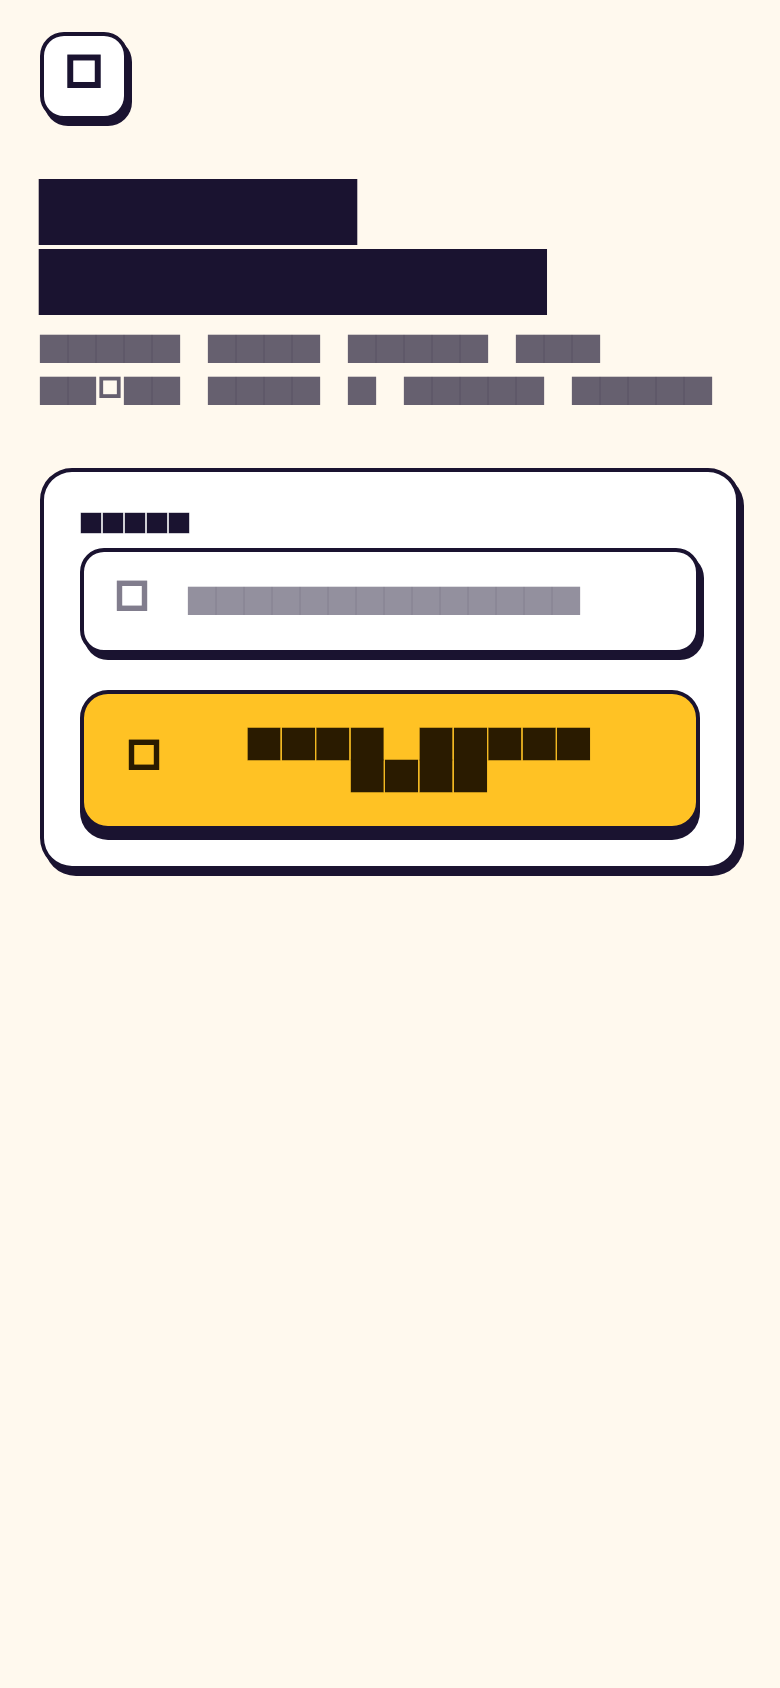
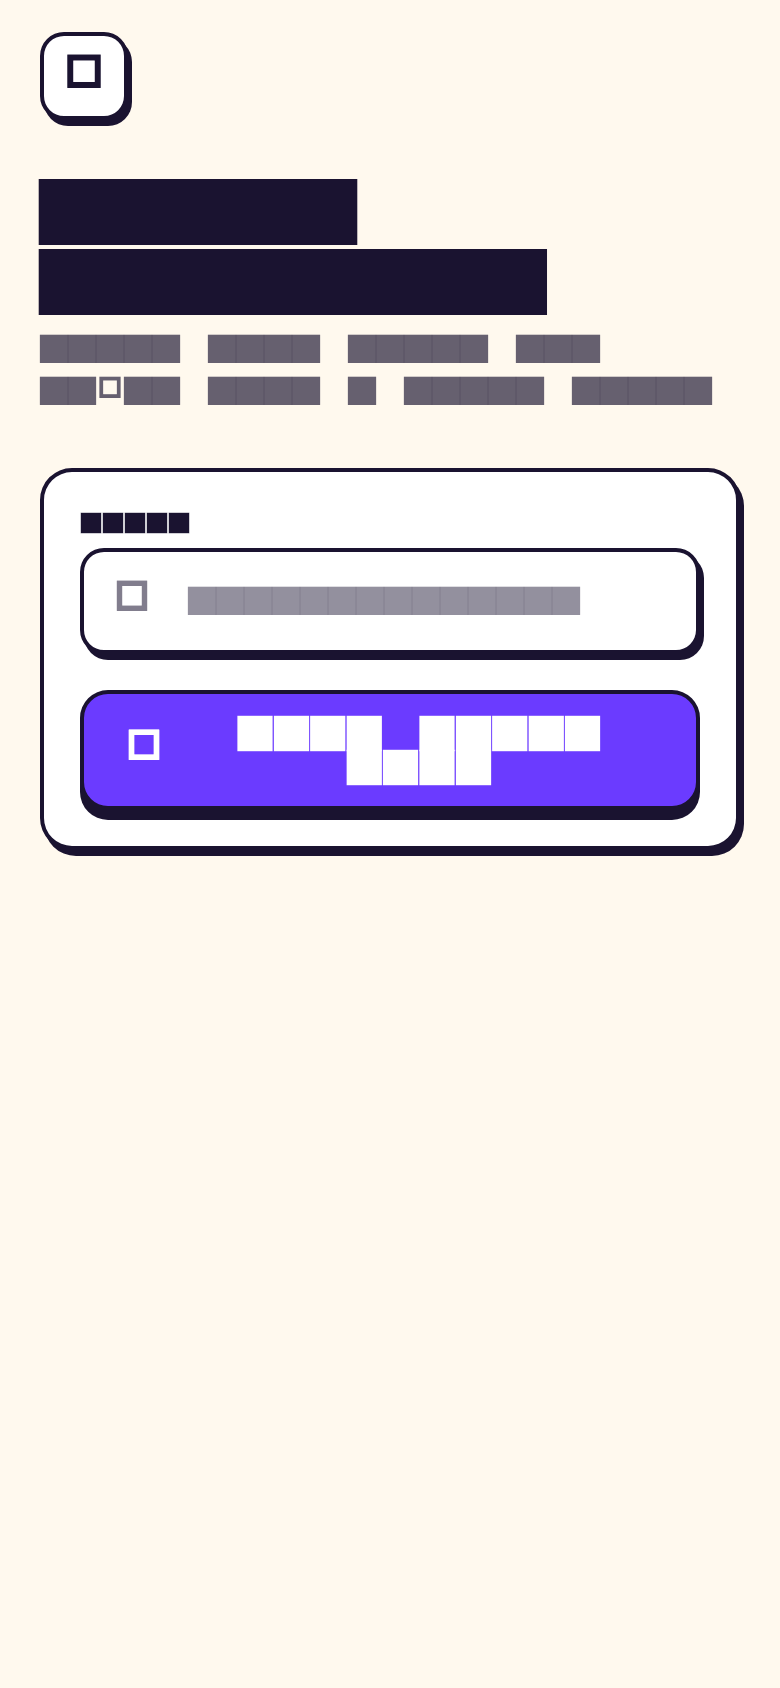
Give the active-quest hero its violet shadow
The spec names this case directly: a coloured shadow marks the one item on
screen that matters most, with #6B3BFF on the active-quest hero and #17C27B
on a cleared quest. Everything else takes ink.

The hero had an ink Offset(3,4) shadow and a 2.5px border. Now violet at
Offset(6,6) - 6px being the spec's depth for hero panels - and 2px, which is
the border weight everywhere in this design.

The hero itself stays navy. It is an ink panel by design, unlike the slot
machine card in the previous commit, which the frame draws white.

Changed region(s): [[0.0308, 0.4005, 0.9538, 0.5237]]

diff --git a/apps/mobile_app/lib/features/quests/presentation/pages/home_page.dart b/apps/mobile_app/lib/features/quests/presentation/pages/home_page.dart
@@ -683,18 +683,22 @@ class _SlotMachineZone extends StatelessWidget {
   @override
   Widget build(BuildContext context) {
     final ink = QuestColors.text(context);
-    // Same navy as the bottom nav pill + active quest hero.
-    const navy = QuestColors.osTextPrimary;
     return Container(
-      padding: const EdgeInsets.all(16),
+      padding: const EdgeInsets.symmetric(vertical: 22, horizontal: 18),
       decoration: BoxDecoration(
-        color: navy,
+        // The design draws this as a white card, not an ink panel: it is the
+        // one thing to do on an empty home, so it should read as the bright
+        // surface rather than recede.
+        color: QuestColors.osCard,
         borderRadius: BorderRadius.circular(18),
-        border: Border.all(color: ink, width: 2.5),
-        boxShadow: [
+        border: Border.all(color: ink, width: 2),
+        boxShadow: const [
+          // A *coloured* shadow marks the single most important thing on
+          // screen; everything else takes ink. With no active quest, that is
+          // this card. 6px, coral, per the frame.
           BoxShadow(
-            color: ink,
-            offset: const Offset(3, 4),
+            color: QuestColors.osRed,
+            offset: Offset(6, 6),
             blurRadius: 0,
           ),
         ],
@@ -752,6 +756,12 @@ class _SlotMachineZone extends StatelessWidget {
 /// Retro arcade chase scene — a Pac-Man sprite walks left→right chomping a
 /// row of dots, with a ghost tailing behind. Draws everything with
 /// [CustomPainter] so it stays crisp at any size and has no asset deps.
+/// The slot-machine reels: three warm-surface tiles, per the design frame.
+///
+/// This replaced a hand-painted Pac-Man scene on a black strip. The frame
+/// draws plain 78pt reels — `#FFF1D6` ground, 2px ink border, 12px radius,
+/// a 26px glyph — and the black strip cannot survive inside the white card
+/// the frame specifies anyway: its pale dot palette was chosen for black.
 class _RetroArcadeScene extends StatefulWidget {
   const _RetroArcadeScene();
 
@@ -761,178 +771,54 @@ class _RetroArcadeScene extends StatefulWidget {
 
 class _RetroArcadeSceneState extends State<_RetroArcadeScene>
     with SingleTickerProviderStateMixin {
-  late final AnimationController _ac;
+  late final AnimationController _spin = AnimationController(
+    duration: const Duration(milliseconds: 1400),
+    vsync: this,
+  )..repeat();
 
-  @override
-  void initState() {
-    super.initState();
-    _ac = AnimationController(
-      vsync: this,
-      duration: const Duration(milliseconds: 2600),
-    )..repeat();
-  }
+  /// The reels idle rather than sit dead: each cycles its glyph on its own
+  /// phase, so the zone reads as a machine waiting to be pulled.
+  static const List<String> _glyphs = ['◇', '◈', '◆'];
 
   @override
   void dispose() {
-    _ac.dispose();
+    _spin.dispose();
     super.dispose();
   }
 
   @override
   Widget build(BuildContext context) {
-    return ClipRRect(
-      borderRadius: BorderRadius.circular(12),
-      child: Container(
-        height: 80,
-        decoration: BoxDecoration(
-          color: QuestColors.pureBlack,
-          borderRadius: BorderRadius.circular(12),
-          border: Border.all(
-            color: QuestColors.pureWhite.withAlpha(QuestColors.alphaHairline),
-            width: 1.5,
-          ),
-        ),
-        child: AnimatedBuilder(
-          animation: _ac,
-          builder: (_, __) {
-            return CustomPaint(
-              painter: _ArcadeScenePainter(progress: _ac.value),
-              size: Size.infinite,
-            );
-          },
-        ),
-      ),
+    final ink = QuestColors.text(context);
+    return AnimatedBuilder(
+      animation: _spin,
+      builder: (context, _) {
+        return Row(
+          children: [
+            for (var reel = 0; reel < 3; reel++) ...[
+              if (reel > 0) const SizedBox(width: 9),
+              Expanded(
+                child: Container(
+                  height: 78,
+                  alignment: Alignment.center,
+                  decoration: BoxDecoration(
+                    color: QuestColors.osSurface,
+                    borderRadius: BorderRadius.circular(12),
+                    border: Border.all(color: ink, width: 2),
+                  ),
+                  child: Text(
+                    // Offset phase per reel so they never land together.
+                    _glyphs[((_spin.value * _glyphs.length).floor() + reel) %
+                        _glyphs.length],
+                    style: TextStyle(fontSize: 26, color: ink, height: 1),
+                  ),
+                ),
+              ),
+            ],
+          ],
+        );
+      },
     );
   }
-}
-
-class _ArcadeScenePainter extends CustomPainter {
-  _ArcadeScenePainter({required this.progress});
-  final double progress;
-
-  // Screen-specific colours — not theme tokens (Pac-Man scene palette).
-  static const Color _dotYellow = Color(0xFFFFF2A8);
-  static const Color _pacYellow = Color(0xFFFFD400);
-  static const Color _ghostPink = Color(0xFFFFB8DE);
-  static const Color _ghostCyan = Color(0xFF6FD9FF);
-
-  @override
-  void paint(Canvas canvas, Size size) {
-    // Dot row — evenly spaced along the middle of the strip.
-    const dotCount = 9;
-    final dotSpacing = size.width / (dotCount + 1);
-    final cy = size.height / 2;
-    final dotPaint = Paint()..color = _dotYellow;
-
-    // Pac-Man travels from the left edge to just past the right edge on a
-    // ping-pong loop. When he's past a dot, that dot is "eaten".
-    final loopT = progress; // 0..1
-    // Ping-pong: forward for first half, backward second half.
-    final pacT = loopT < 0.5 ? loopT * 2 : (1 - loopT) * 2;
-    final pacX = -14 + (size.width + 28) * pacT;
-    final goingLeft = loopT >= 0.5;
-
-    // Draw the dots, skipping ones Pac-Man has already passed in the
-    // current direction.
-    for (var i = 0; i < dotCount; i++) {
-      final dotX = dotSpacing * (i + 1);
-      final eaten = goingLeft ? dotX > pacX : dotX < pacX;
-      if (eaten) continue;
-      canvas.drawCircle(Offset(dotX, cy), 2.2, dotPaint);
-    }
-
-    // Pac-Man — yellow circle with a chomping wedge mouth.
-    final chomp =
-        0.05 + 0.55 * ((progress * 8) % 1.0 < 0.5 ? 1.0 : 0.0).toDouble();
-    _drawPacMan(canvas, Offset(pacX, cy), 11, chomp, goingLeft);
-
-    // Ghost — follows Pac-Man about 28 px behind (in front when going left).
-    final ghostX = goingLeft ? pacX + 28 : pacX - 28;
-    _drawGhost(canvas, Offset(ghostX, cy), 11, progress);
-  }
-
-  void _drawPacMan(
-    Canvas canvas,
-    Offset center,
-    double r,
-    double chompRad,
-    bool facingLeft,
-  ) {
-    final paint = Paint()..color = _pacYellow;
-    // The mouth opens to the right by default; flip when going left.
-    final facing = facingLeft ? 3.14159 : 0.0; // pi rotation
-    final start = facing + chompRad;
-    final sweep = 6.283185 - 2 * chompRad;
-    canvas.drawArc(
-      Rect.fromCircle(center: center, radius: r),
-      start,
-      sweep,
-      true,
-      paint,
-    );
-  }
-
-  void _drawGhost(
-    Canvas canvas,
-    Offset center,
-    double r,
-    double t,
-  ) {
-    // Ghost cycles through 3 classic colours as a little flair.
-    final bodyColors = [
-      QuestColors.osRed, // Blinky (red/coral)
-      _ghostPink, // Pinky
-      _ghostCyan, // Inky (cyan)
-    ];
-    final body = Paint()
-      ..color = bodyColors[((t * 3).floor()) % bodyColors.length];
-    final path = Path();
-    // Top dome
-    path.moveTo(center.dx - r, center.dy + r * 0.6);
-    path.lineTo(center.dx - r, center.dy);
-    path.arcToPoint(
-      Offset(center.dx + r, center.dy),
-      radius: Radius.circular(r),
-      clockwise: true,
-    );
-    path.lineTo(center.dx + r, center.dy + r * 0.6);
-    // Wavy bottom (3 bumps)
-    final bumpWidth = (2 * r) / 3;
-    for (var i = 0; i < 3; i++) {
-      final xEnd = center.dx + r - (i + 1) * bumpWidth;
-      final xMid = xEnd + bumpWidth / 2;
-      final waveUp = center.dy + r * 0.6 - (i.isEven ? 3.0 : 0.0);
-      path.lineTo(xMid, waveUp);
-      path.lineTo(xEnd, center.dy + r * 0.6);
-    }
-    path.close();
-    canvas.drawPath(path, body);
-
-    // Eyes
-    final whitePaint = Paint()..color = QuestColors.pureWhite;
-    final pupilPaint = Paint()..color = QuestColors.osTextPrimary;
-    final eyeOffsetX = r * 0.38;
-    final eyeY = center.dy - r * 0.15;
-    canvas.drawCircle(
-        Offset(center.dx - eyeOffsetX, eyeY), r * 0.28, whitePaint);
-    canvas.drawCircle(
-        Offset(center.dx + eyeOffsetX, eyeY), r * 0.28, whitePaint);
-    // Pupils jitter slightly with animation so the ghost feels alive.
-    final pupilX = -0.6 + 1.2 * ((t * 2) % 1.0);
-    canvas.drawCircle(
-      Offset(center.dx - eyeOffsetX + pupilX, eyeY),
-      r * 0.12,
-      pupilPaint,
-    );
-    canvas.drawCircle(
-      Offset(center.dx + eyeOffsetX + pupilX, eyeY),
-      r * 0.12,
-      pupilPaint,
-    );
-  }
-
-  @override
-  bool shouldRepaint(_ArcadeScenePainter old) => old.progress != progress;
 }
 
 // ── Active quest hero ─────────────────────────────────────────────────────
@@ -1099,9 +985,17 @@ class _ActiveQuestHeroState extends ConsumerState<_ActiveQuestHero>
       decoration: BoxDecoration(
         color: navy,
         borderRadius: BorderRadius.circular(18),
-        border: Border.all(color: ink, width: 2.5),
-        boxShadow: [
-          BoxShadow(color: ink, offset: const Offset(3, 4), blurRadius: 0),
+        border: Border.all(color: ink, width: 2),
+        boxShadow: const [
+          // The hero stays an ink panel, but its shadow is violet rather
+          // than ink: a coloured shadow marks the single most important
+          // thing on screen, and while a quest is running that is this.
+          // 6px is the spec's depth for hero panels.
+          BoxShadow(
+            color: QuestColors.osPrimary,
+            offset: Offset(6, 6),
+            blurRadius: 0,
+          ),
         ],
       ),
       child: Column(
